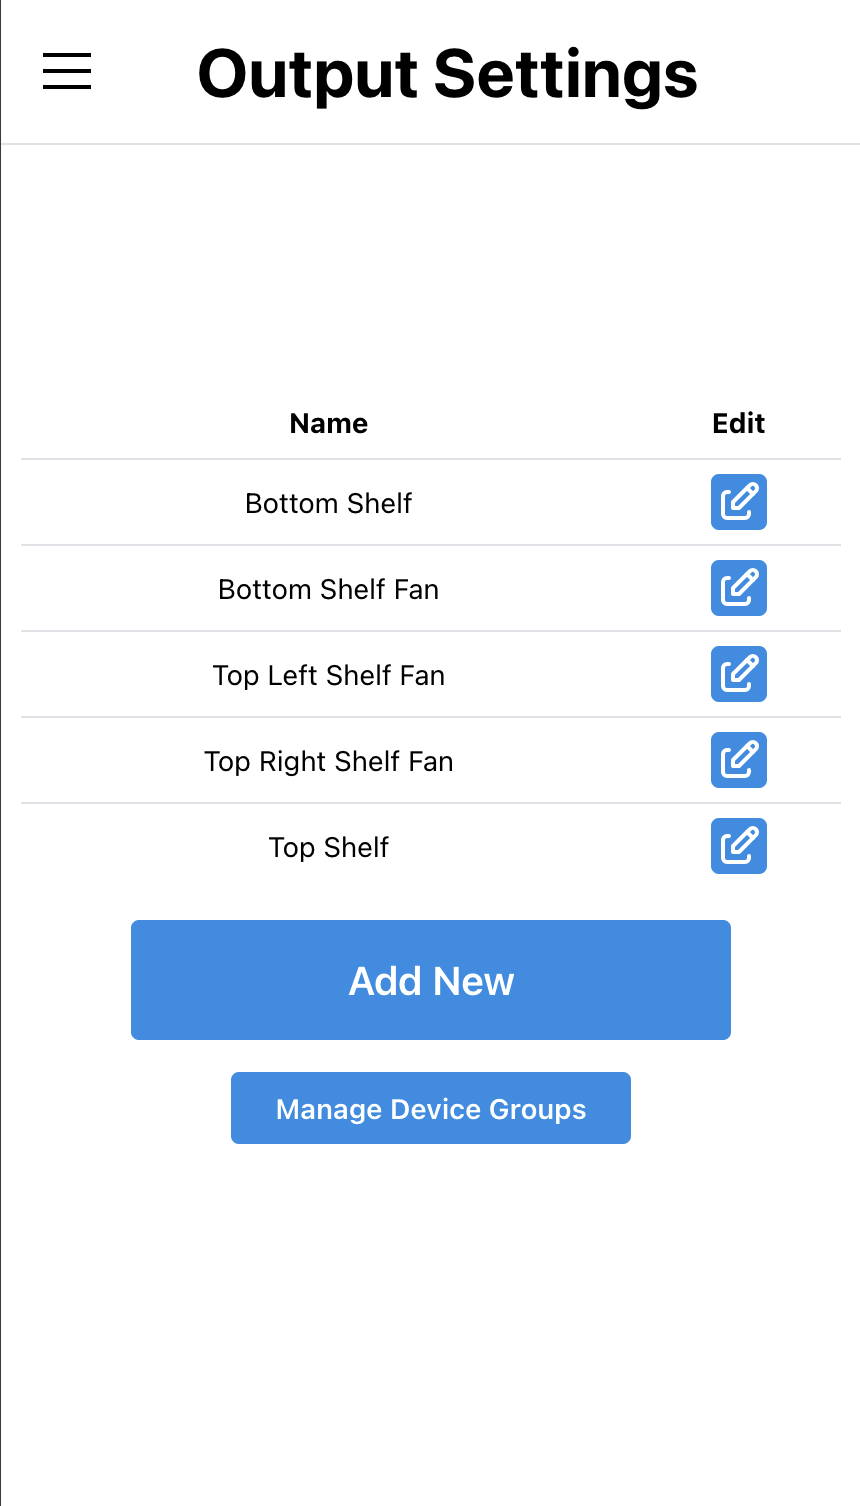
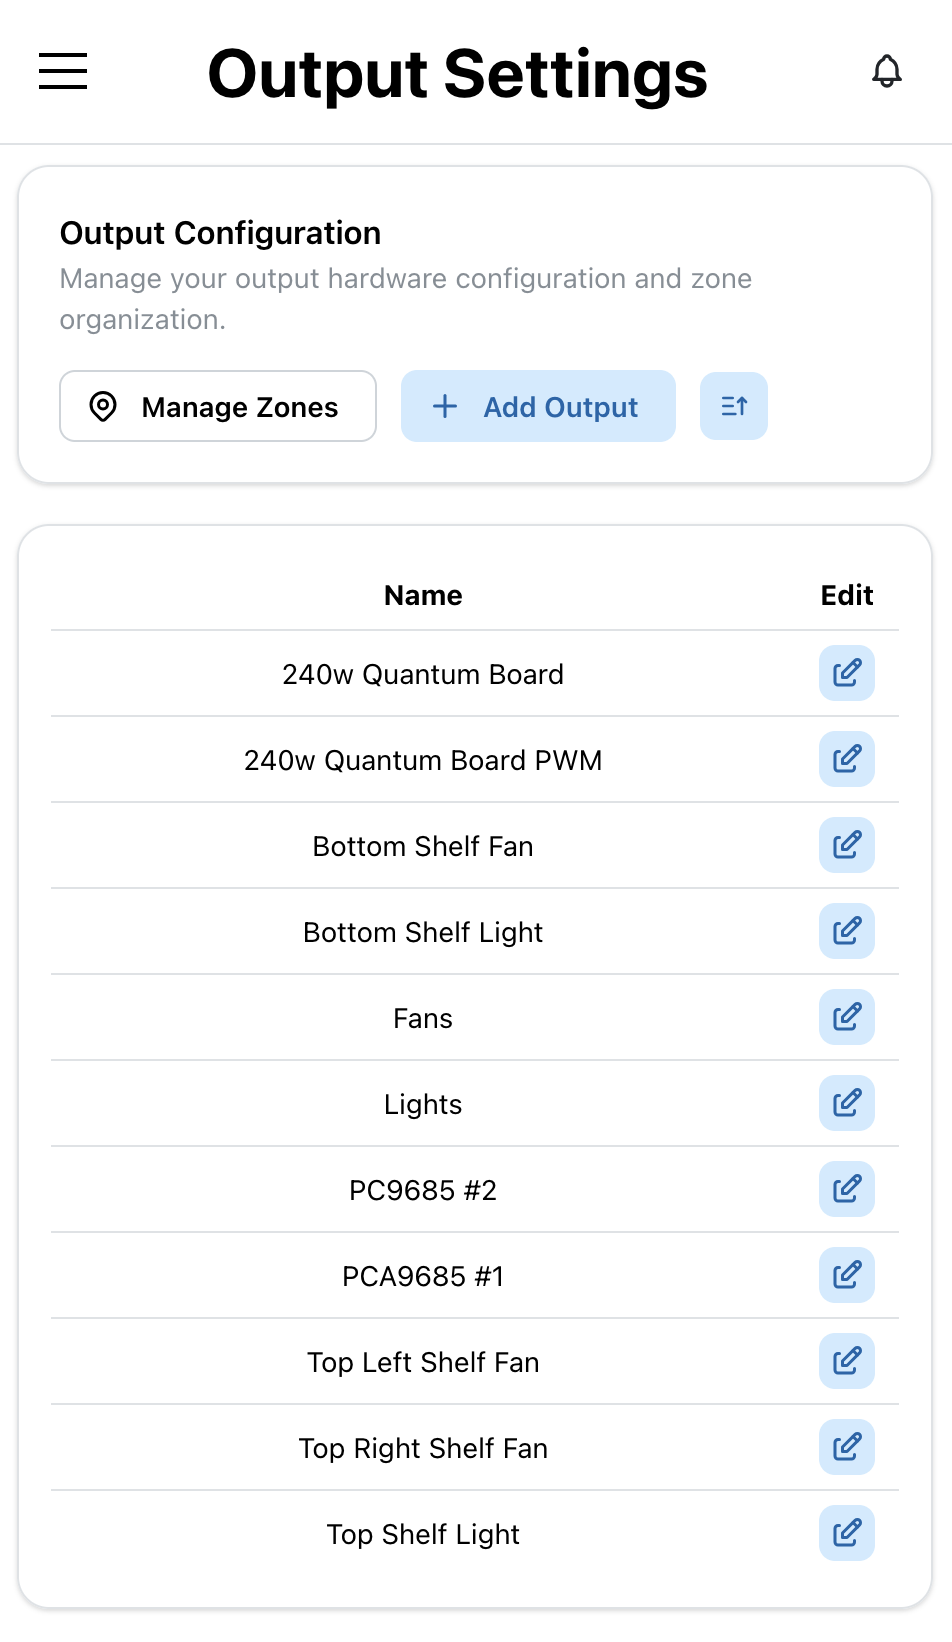
Documentation updates

diff --git a/client/src/routes/settings/camera/CameraSettings.tsx b/client/src/routes/settings/camera/CameraSettings.tsx
@@ -170,7 +170,7 @@ export default function CameraSettings() {
             />
             <Switch
               disabled={!newCameraForm.values.enabled}
-              label="Timelapse"
+              label="Enable Timelapse"
               type="checkbox"
               withThumbIndicator={false}
               {...newCameraForm.getInputProps("timelapseEnabled", {

diff --git a/docs/docusaurus.config.ts b/docs/docusaurus.config.ts
@@ -141,7 +141,7 @@ const config: Config = {
             {
               type: "doc",
               label: "Data Retention",
-              docId: "how-to/data-retention",
+              docId: "how-to/application-settings",
             },
             {
               type: "doc",

diff --git a/docs/docs/how-to/journals.md b/docs/docs/how-to/journals.md
@@ -9,12 +9,12 @@ While there's often no replacement for a pen and a clipboard, sometimes it's con
 
 ## The Journal
 
-At a top level, a journal exists as a title and a description. You can also give them colored icons for quick and easy visual identification, and also tags to help keep them categorized or related to each other. You can create a new Journal by navigating to the Journal item in the navbar. Then, at the bottom, you'll find a big button that says "Add New". Simply click this and fill out your Journal's information, and add any tags you want to start with. You can also edit these after the fact.
+At a top level, a journal exists as a title and a description. You can also give them colored icons for quick and easy visual identification, and also tags to help keep them categorized or related to each other. You can create a new Journal by navigating to the Journal item in the navbar. Then, at the bottom, you'll find a big button that says `Create`. Simply click this and fill out your Journal's information, and add any tags you want to start with. You can also edit these after the fact. When you're "done" with a Journal, you can archive it to prevent additional edits being made to it - they can also be unarchived if needed.
 
 ## Entries
 
-Underneath Journals, you have a series of entries. This is the real meat and potatoes of a Journal - after all, what is a book without content? Each entry consists of a title and content. Like Journals, you can also tag them for organization. To add an entry, click into your journal and scroll down to the bottom, where you'll see a familiar looking button labeled "Add New". Click on this, fill out your entry and add any tags, and click save. Like Journals, you can edit these after the fact.
+Underneath Journals, you have a series of entries. This is the real meat and potatoes of a Journal - after all, what is a book without content? Each entry consists of a title and content. Like Journals, you can also tag them for organization. To add an entry, click into your journal where you'll see a familiar looking button labeled `Add`. Click on this, fill out your entry and add any tags, and click save. Like Journals, you can edit these after the fact.
 
 ## Tags (Journal and Entry)
 
-While categorically two separate things, Journal and Entry tags behave similarly. Under both the Journal view and the Entry view, there's a button at the bottom for managing tags. Simply give it a name and a color and you're off to the races. Tag away!
+While categorically two separate things, Journal and Entry tags behave similarly. Under both the Journal view and the Entry view, there's a button neighboring the respective "creates" for managing tags. Simply give it a name and a color and you're off to the races. Tag away!

diff --git a/docs/docs/how-to/automations.md b/docs/docs/how-to/automations.md
@@ -143,7 +143,7 @@ Finally, you might want to have a system that ensures that you're only ever powe
   <img src="/docs/img/Automations.png" alt="Automations" style={{ width: '30%', maxWidth: '100%', height: 'auto' }} />
   <img src="/docs/img/AutomationsEdit.png" alt="New Automation" style={{ width: '30%', maxWidth: '100%', height: 'auto' }} />
 </p>
-Navigate to `Automations` from the nav bar. Click the big blue `Add New` button at the bottom, give your new automation a name, and click `Next`.
+Navigate to `Automations` from the nav bar. Click the big blue `Add Automation` button at the bottom, give your new automation a name, and click `Next`.
 
 ## Editing an Automation
 
@@ -155,7 +155,7 @@ As explained [above](#automation-evaluation), you must decide whether your autom
 
 ### Conditions
 
-You can add or remove conditions by expanding the `Conditions` drop down to reveal your conditions and the `Add Condition` button. To remove a condition, simply click the `Trashcan` icon next to the condition you wish to delete. To add a condition, click the `Add Condition` button. This will reveal two drop downs:
+You can add or remove conditions by expanding the `Conditions` accordion to reveal your conditions and the `Add Condition` button. To remove a condition, simply click the `Trashcan` icon next to the condition you wish to delete. To add a condition, click the `Add Condition` button. This will reveal two drop downs:
 
 - Condition Type
 - Group
@@ -184,7 +184,7 @@ The `Group` drop down will let you select which [condition group](#condition-gro
 
 ### Actions
 
-You can add or remove actions by expanding the `Actions` drop down to reveal your actions and the `Add Action` button. To remove an action, simply click the `Trashcan` icon next to the action you wish to delete. To add an action, click the `Add Action` button. Currently, there are two types of actions:
+You can add or remove actions by expanding the `Actions` accordion to reveal your actions and the `Add Action` button. To remove an action, simply click the `Trashcan` icon next to the action you wish to delete. To add an action, click the `Add Action` button. Currently, there are two types of actions:
 
 - Output Actions, used to trigger output changes
   - Selecting this action type will reveal a list of outputs to choose from.

diff --git a/docs/docs/how-to/application-settings.md b/docs/docs/how-to/application-settings.md
@@ -1,0 +1,26 @@
+---
+sidebar_position: 9
+title: Application Settings
+---
+
+# Application settings
+
+There are a few knobs and levers you can twist and pull to change the behavior of the app. These are mostly to make sure that the app doesn't consume ALL of your hard drive space, but there are latitude and longitude under Solar and Lunar timing, which will need to be set in order to enable that feature in your automations.
+
+<p style={{ textAlign: 'center' }}>
+  <img src="/docs/img/ApplicationSettings.png" alt="Application Settings" style={{ width: '30%', maxWidth: '100%', height: 'auto' }} />
+</p>
+
+## Data Retention
+
+By default, Sproot will keep data for 2 years for your outputs and sensors. This is configurable - if you'd rather keep data forever, or for only a couple of days, you can configure that here. Update to your desired durations and click "Save Settings".
+
+Similarly, Sproot will take nightly backups and, by default, store the last 30 days worth. You can configure this to retain more or fewer backups. These are functionally full database dumps - they're compressed, but these can add up to be a lot of data. Generally speaking, always good to have a recent one or two on hand, especially before upgrading versions.
+
+## Debug Logging
+
+This gets noisy, and can be a lot of unnecessary data getting written to your logs. I'd only recommend turning this on if you're curious, or if you're actually trying to debug something. Otherwise, probably best to leave it off. You can see the extra output in the log stream.
+
+## Solar and Lunar Timing
+
+Latitude and longitude are required to calculate the timings of solar and lunar events. These don't need to be set, but obviously need to if you want to utilize solar and lunar events in your automations.

diff --git a/docs/docs/how-to/outputs.md b/docs/docs/how-to/outputs.md
@@ -35,7 +35,7 @@ You'll need to go through setting up your TP-Link Smart Plug through the Kasa Ho
   <img src="/docs/img/OutputSettingsNew.png" alt="New Output" style={{ width: '30%', maxWidth: '100%', height: 'auto' }} />
 </p>
 Once you've got your outputs integrated, navigate to `Settings -> Outputs`. 
-* To add a new device, click the big `Add New` button, and a pop up will appear that you can configure your output in. Once you've configured it, click `Add Output` to save your changes.
+* To add a new device, click the big `Add Output` button, and a pop up will appear that you can configure your output in. Once you've configured it, click `Add Output` to save your changes.
 * To edit an existing device, click the `Edit` icon next to the device's name.
 
 #### Name
@@ -58,7 +58,7 @@ This value determines how frequently automations should be triggered. Think of i
 
 This organizes zoned devices into a common display category. Think "Zone". If you've got two shelves with different conditions, you might want them zoned together to keep things organized.
 
-- You can manage zones by clicking the big `Manage Device Zones` button under the `Add New` button. These zones are also shared with Sensors.
+- You can manage zones by clicking the big `Manage Zones` button by the `Add Output` button. These zones are also shared with Sensors.
 
 #### Model Specific Settings
 

diff --git a/docs/docs/how-to/subcontrollers.md b/docs/docs/how-to/subcontrollers.md
@@ -26,6 +26,8 @@ Once your device is flashed, you should be able to disconnect it and plug it in 
 
 - If your subcontroller can't connect to the Wi-Fi network, it'll pop up again as its own access point. Verify and repeat the above steps to get it connected.
 
-Now that your subcontroller is connected to the Wi-Fi network, it should show up on Sproot. Navigate to `Settings -> Subcontrollers`, and click `Connect`. In the pop up that appears, select your device and give it a name, then click `Add Device`.
+Now that your subcontroller is connected to the Wi-Fi network, it should show up on Sproot. Navigate to `Settings -> Subcontrollers`, and click `Connect`. In the pop up that appears, select your device and give it a name, then click `Add Device`. Once you've connected your subcontroller, it'll display a connection status in the table.
 
 At this point, you should have a new Subcontroller ready to have sensors and outputs added to it. Those steps are virtually identical to connecting them to the Raspberry Pi. You can find steps for sensors [here](sensors/#integrating-devices) and for outputs [here](outputs/#integrating-devices).
+
+Additionally, once a subcontroller is integrated, you can use this page to transmit over-the-air (OTA) updates when they're available. You'll be able to see your device's version, and any possible firmware updates.

diff --git a/docs/docs/how-to/sensors.md b/docs/docs/how-to/sensors.md
@@ -38,7 +38,7 @@ Since these are discoverable, you'll only need to wire the relevant pins between
 </p>
 Once you've got your sensors integrated, navigate to `Settings -> Sensors`
 
-- To add a new device, click the big `Add New` button, and a pop up will appear that you can configure your sensor in. Once you've configured it, click `Add Sensor` to save your changes.
+- To add a new device, click the big `Add Sensor` button, and a pop up will appear that you can configure your sensor in. Once you've configured it, click `Add Sensor` to save your changes.
 - To edit an existing device, click the `Edit` icon next to the device's name.
 
 #### Name
@@ -57,7 +57,7 @@ This determines some of the other settings of the sensor, but ultimately tells S
 
 This organizes zoned devices into a common display category. Think "Zone". If you've got two shelves with different conditions, you might want them zoned together to keep things organized.
 
-- You can manage zones by clicking the big `Manage Device Zones` button under the `Add New` button. These zones are also shared with Outputs.
+- You can manage zones by clicking the big `Manage Zones` button by the `Add Sensor` button. These zones are also shared with Outputs.
 
 #### Model Specific Settings
 

diff --git a/docs/docs/how-to/system-status.md b/docs/docs/how-to/system-status.md
@@ -5,9 +5,9 @@ title: System Status
 
 # System Status
 
-Not much actionable here, but always a good thing to know about. If you're ever curious about how Sproot is performing, you can checkout the system's status by navigating to `Settings -> System` and expanding the `Status` section.
+Not much actionable here, but always a good thing to know about. If you're ever curious about how Sproot is performing, you can checkout the system's status by navigating to `Settings -> System` and expanding the `Status` accordion.
 
-Additionally, if you need to restart sproot, there's a big ol' `Restart` button at the bottom of this page.
+Additionally, if you need to restart sproot, there's a big ol' `Restart` button at the bottom of this page. This will kill the container, causing it to come back online. Hang out on this page, a modal with a "Server is offline, (This will disappear when we're back!)" sort of message will appear until things are back online.
 
 <p style={{ textAlign: 'center' }}>
   <img src="/docs/img/SystemStatus.png" alt="System Status" style={{ width: '30%', maxWidth: '100%', height: 'auto' }} />

diff --git a/docs/docs/how-to/backups.md b/docs/docs/how-to/backups.md
@@ -17,7 +17,7 @@ To download a backup, navigate to `Settings -> System` and expand the `Backups` 
 
 ## Restoring from a backup
 
-To restore from a backup, navigate to `Settings -> System` and expand the `Backups` section. Towards the bottom of the section, there's an input labeled `Restore`. Click this input, and locate your backup. Once you've located it, click `Upload`. Please note that this process will result in downtime - Sproot will halt and process the backup before restarting.
+To restore from a backup, navigate to `Settings -> System` and expand the `Backups` section. Towards the bottom of the section, there's an input labeled `Restore`. Click this input, and locate your backup. Once you've located it and listed it in the file picker, click `Upload` and confirm in the modal. Please note that this process will result in downtime - Sproot will halt and process the backup before restarting.
 
 ## Creating a backup
 

diff --git a/docs/docs/how-to/camera.md b/docs/docs/how-to/camera.md
@@ -45,7 +45,9 @@ These settings effectively determine how many images will go into an archive (at
   - [System](system-status/#system)
   - [Timelapse](system-status/#timelapse)
 
-## Managing your Timelapes
+There's also a button labeled `Delete All Images` that will delete all of your existing timelapse images. This is useful if you want to start fresh for a new timelapse.
+
+## Managing your Timelapse
 
 <p style={{ textAlign: 'center' }}>
   <img src="/docs/img/LiveView.png" alt="Live View" style={{ width: '30%', maxWidth: '100%', height: 'auto' }} />
